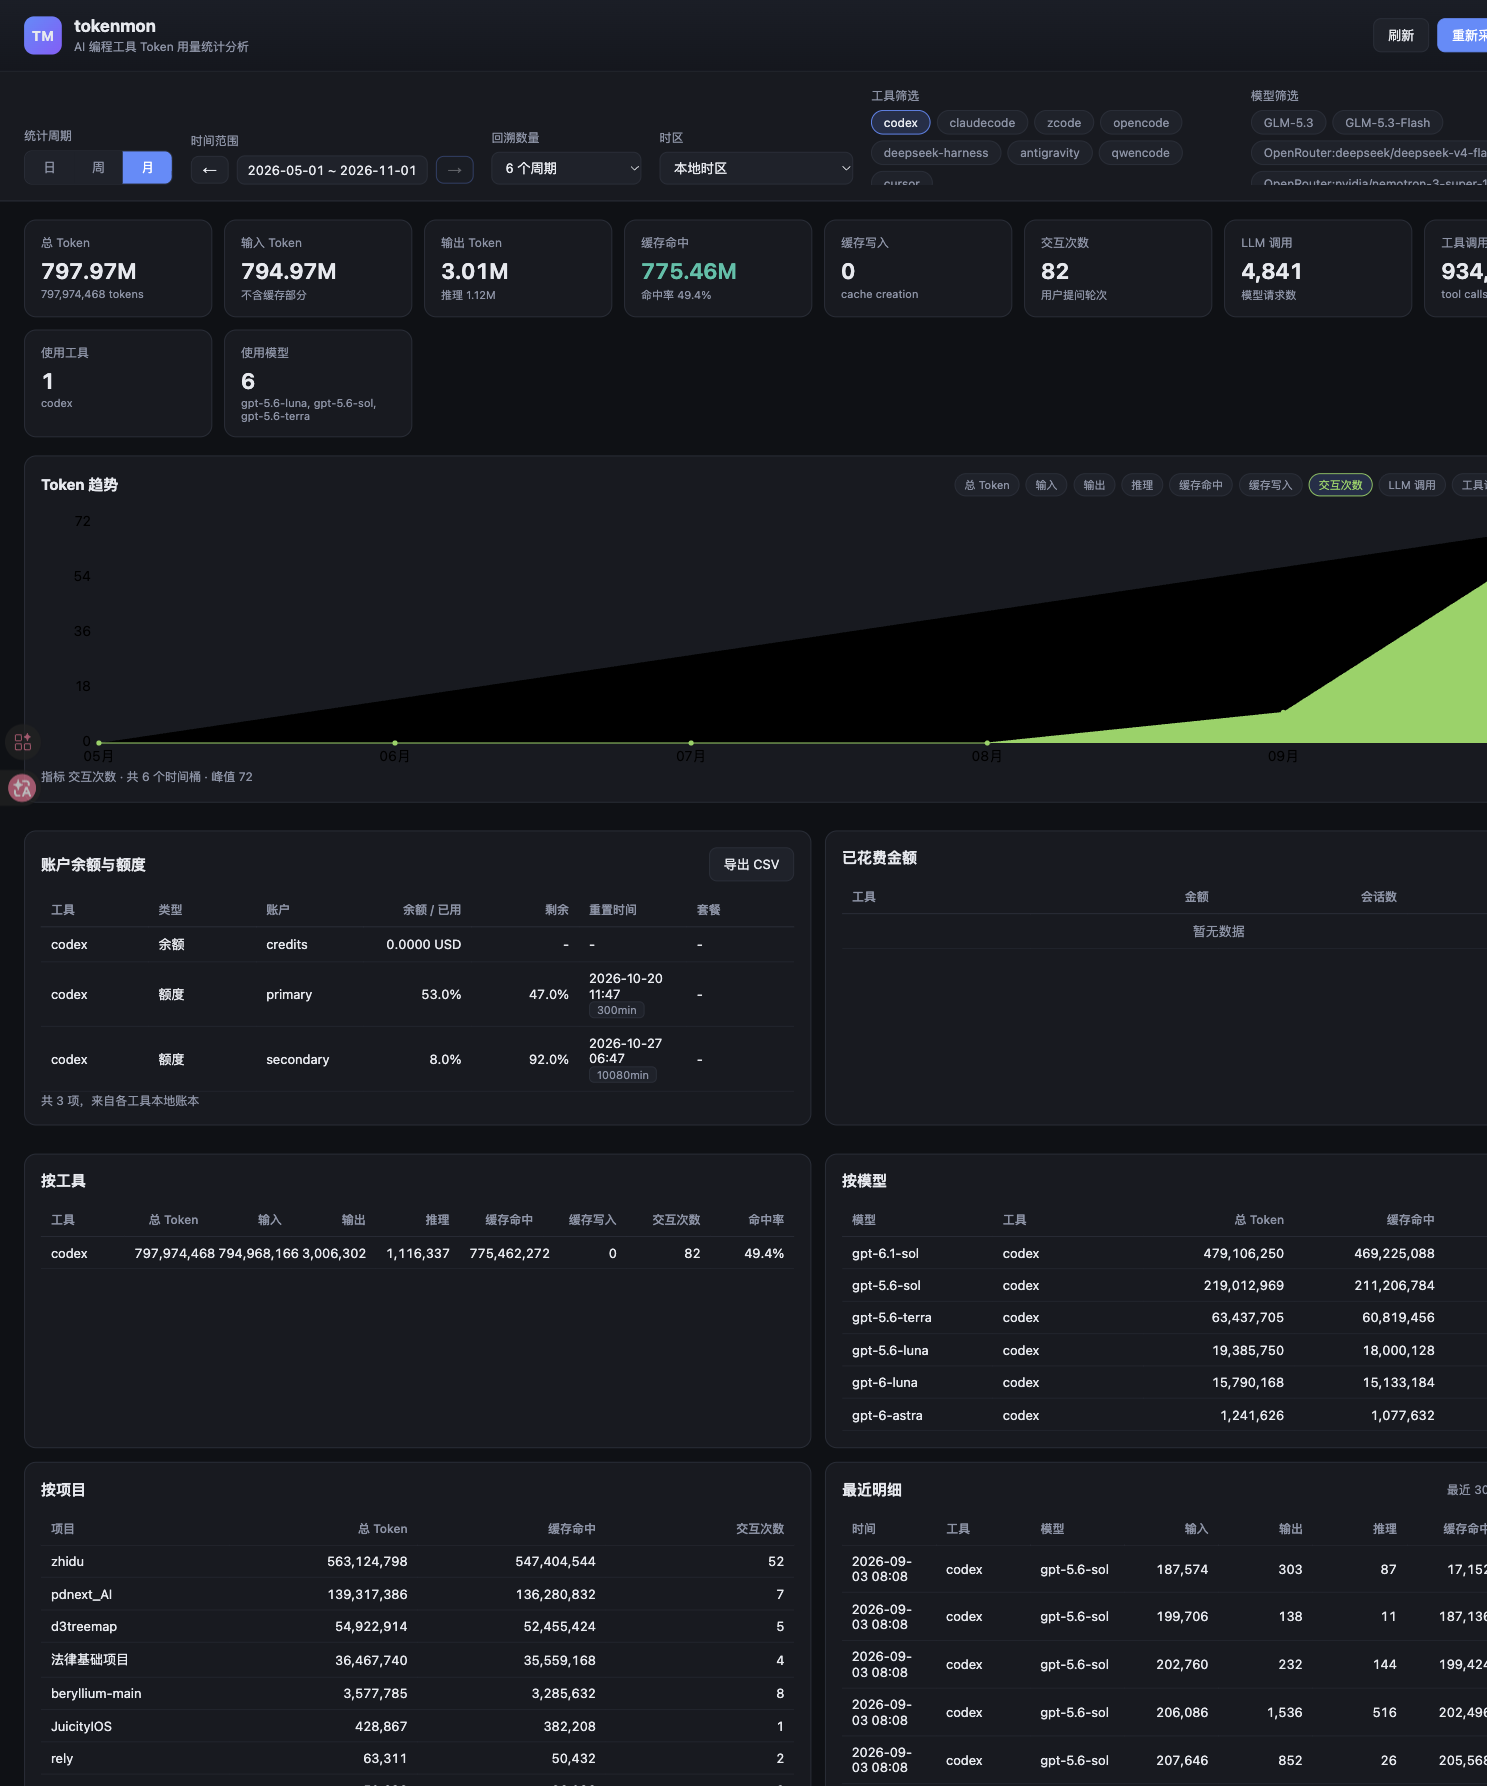
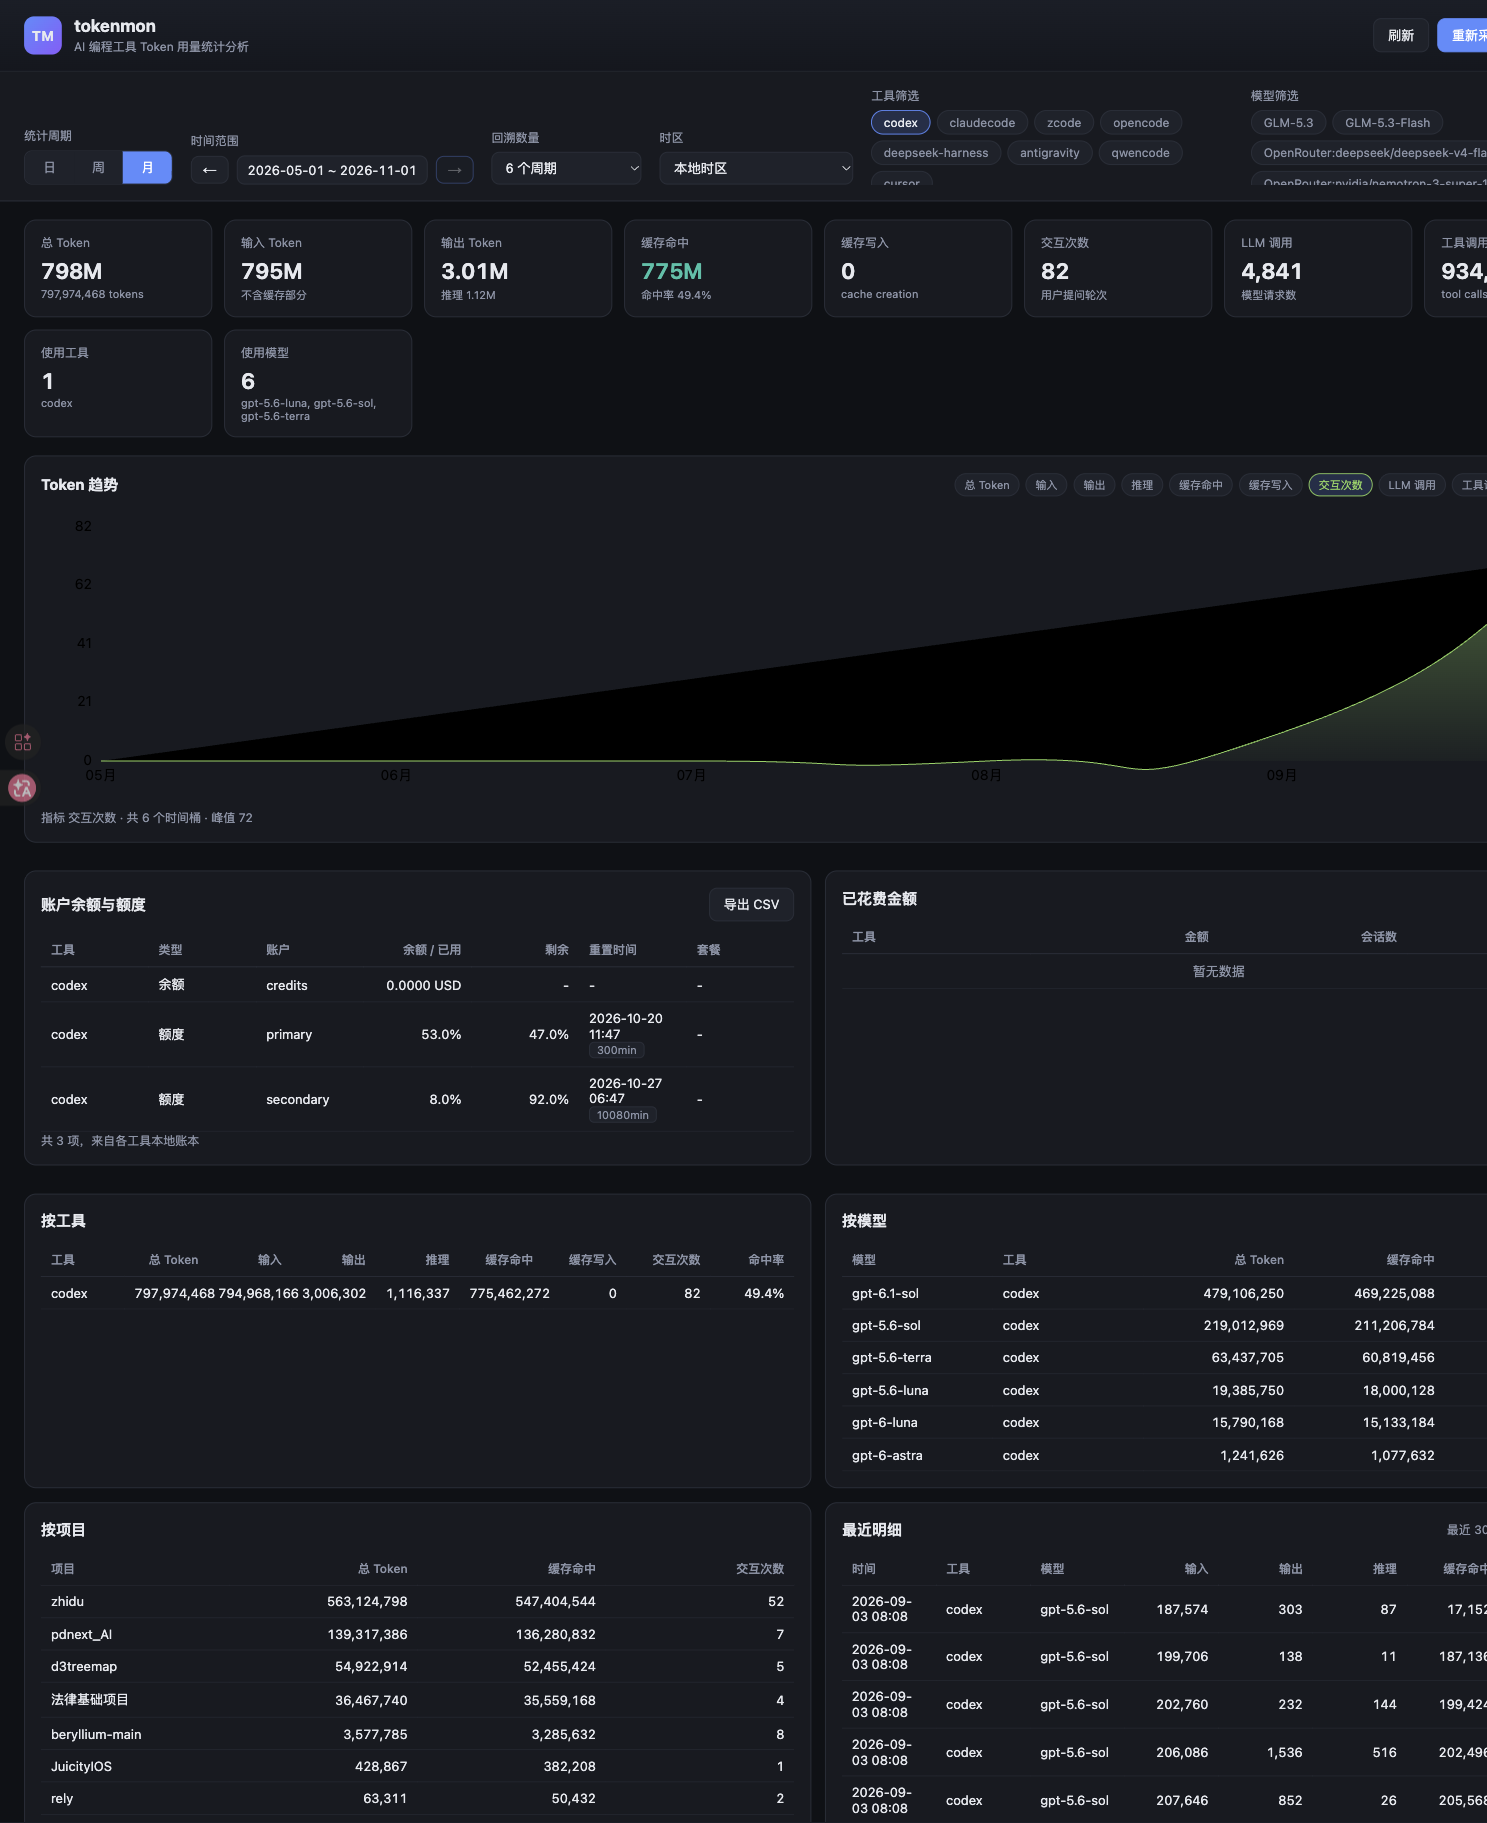
feat(ui): smooth Catmull-Rom curve chart with gradient area and peak marker; 3-sig-digit token formatting

diff --git a/tokenmon_pkg/static/app.js b/tokenmon_pkg/static/app.js
@@ -74,12 +74,26 @@ function qsa(sel) {
   return Array.prototype.slice.call(document.querySelectorAll(sel));
 }
 
+// Compact token formatting: B / M / k with at most 3 significant digits.
+//   1_884_229_336 -> 1.88B   348_583_129 -> 349M   14_200 -> 14.2k
 function fmt(n) {
   if (n === null || n === undefined) return "-";
-  if (Math.abs(n) >= 1e9) return (n / 1e9).toFixed(2) + "B";
-  if (Math.abs(n) >= 1e6) return (n / 1e6).toFixed(2) + "M";
-  if (Math.abs(n) >= 1e3) return (n / 1e3).toFixed(1) + "k";
-  return String(n);
+  var value = Number(n);
+  if (!isFinite(value)) return "-";
+  var sign = value < 0 ? "-" : "";
+  var abs = Math.abs(value);
+  if (abs >= 1e9) return sign + sig3(abs / 1e9) + "B";
+  if (abs >= 1e6) return sign + sig3(abs / 1e6) + "M";
+  if (abs >= 1e3) return sign + sig3(abs / 1e3) + "k";
+  return sign + String(Math.round(abs));
+}
+
+// Round to 3 significant digits and drop trailing zeros so the label stays
+// short: 1.005 -> "1.01", 1.0 -> "1", 349.0 -> "349".
+function sig3(x) {
+  if (x >= 100) return String(Math.round(x));
+  if (x >= 10) return String(Math.round(x * 10) / 10);
+  return String(Math.round(x * 100) / 100);
 }
 
 function fmtFull(n) {
@@ -227,6 +241,35 @@ function buildTimezoneOptions() {
 
 // ------------------------------------------------------------- line chart
 
+// ------------------------------------------------------------- line chart
+
+// Catmull-Rom spline converted to cubic Bezier segments.  This is what makes
+// the curve smooth: straight L segments between sparse daily buckets read as
+// a jagged polyline, while the spline keeps the data points exact and bends
+// the line between them.
+function splinePath(points) {
+  if (!points.length) return "";
+  if (points.length === 1) {
+    return "M" + points[0][0].toFixed(1) + " " + points[0][1].toFixed(1);
+  }
+  var d = "M" + points[0][0].toFixed(1) + " " + points[0][1].toFixed(1);
+  for (var i = 0; i < points.length - 1; i++) {
+    var p0 = points[i - 1] || points[i];
+    var p1 = points[i];
+    var p2 = points[i + 1];
+    var p3 = points[i + 2] || p2;
+    var k = 1 / 6;
+    var c1x = p1[0] + (p2[0] - p0[0]) * k * 2;
+    var c1y = p1[1] + (p2[1] - p0[1]) * k * 2;
+    var c2x = p2[0] - (p3[0] - p1[0]) * k * 2;
+    var c2y = p2[1] - (p3[1] - p1[1]) * k * 2;
+    d += "C" + c1x.toFixed(1) + " " + c1y.toFixed(1) + " "
+      + c2x.toFixed(1) + " " + c2y.toFixed(1) + " "
+      + p2[0].toFixed(1) + " " + p2[1].toFixed(1) + " ";
+  }
+  return d;
+}
+
 function renderLineChart(buckets) {
   var host = qs("#chart");
   var metric = metricDef(state.metric);
@@ -239,74 +282,74 @@ function renderLineChart(buckets) {
   }
 
   var width = Math.max(560, host.clientWidth || 860);
-  var height = 260;
-  var pad = { top: 14, right: 16, bottom: 26, left: 58 };
+  var height = 280;
+  var pad = { top: 18, right: 18, bottom: 28, left: 60 };
   var plotW = width - pad.left - pad.right;
   var plotH = height - pad.top - pad.bottom;
 
   var values = buckets.map(function (b) { return Number(b[metric.key]) || 0; });
   var max = Math.max.apply(null, values.concat([0]));
-  var min = Math.min.apply(null, values.concat([0]));
-  // Give a flat series some visible headroom instead of a straight line at 0.
-  if (max === min) { max = max + 1; min = min > 0 ? 0 : min; }
-  var span = max - min || 1;
+  // Anchor the y axis at zero so the area fill is meaningful, then leave
+  // head room for the peak label.
+  var top = max === 0 ? 1 : max * 1.14;
+  var span = top;
   var stepX = buckets.length > 1 ? plotW / (buckets.length - 1) : 0;
 
   function xAt(i) { return pad.left + stepX * i; }
-  function yAt(v) {
-    return pad.top + plotH - ((v - min) / span) * plotH;
-  }
+  function yAt(v) { return pad.top + plotH - (v / span) * plotH; }
 
+  var points = values.map(function (v, i) { return [xAt(i), yAt(v)]; });
+  var linePath = splinePath(points);
+  var areaPath = points.length > 1
+    ? linePath + "L" + xAt(points.length - 1).toFixed(1)
+      + " " + (pad.top + plotH).toFixed(1)
+      + " L" + xAt(0).toFixed(1) + " " + (pad.top + plotH).toFixed(1) + " Z"
+    : "";
+
+  var gradId = "grad-" + metric.key;
   var parts = [];
   parts.push("<svg viewBox=\"0 0 " + width + " " + height + "\" role=\"img\">");
+  parts.push("<defs><linearGradient id=\"" + gradId + "\" x1=\"0\" y1=\"0\" x2=\"0\" y2=\"1\">",
+             "<stop offset=\"0%\" stop-color=\"" + metric.color + "\" stop-opacity=\"0.40\"/>",
+             "<stop offset=\"100%\" stop-color=\"" + metric.color + "\" stop-opacity=\"0.02\"/>",
+             "</linearGradient></defs>");
 
-  // horizontal grid + y labels (4 ticks)
   var ticks = 4;
   for (var t = 0; t <= ticks; t++) {
-    var v = min + (span * t) / ticks;
+    var v = (span * t) / ticks;
     var y = yAt(v);
-    parts.push("<line class=\"grid-line\" x1=\"" + pad.left + "\" y1=\"" + y
-               + "\" x2=\"" + (width - pad.right) + "\" y2=\"" + y + "\"/>");
-    parts.push("<text class=\"axis-label\" x=\"" + (pad.left - 8) + "\" y=\""
-               + (y + 3) + "\" text-anchor=\"end\">" + esc(fmt(v)) + "</text>");
+    parts.push("<line class=\"grid-line\" x1=\"" + pad.left + "\" y1=\"" + y.toFixed(1),
+               + "\" x2=\"" + (width - pad.right) + "\" y2=\"" + y.toFixed(1) + "\"/>");
+    parts.push("<text class=\"axis-label\" x=\"" + (pad.left - 9) + "\" y=\"",
+               + (y + 3.5).toFixed(1) + "\" text-anchor=\"end\">" + esc(fmt(v)) + "</text>");
   }
 
-  // x labels (thin out when crowded)
-  var every = Math.ceil(buckets.length / 12);
+  var every = Math.max(1, Math.ceil(buckets.length / 14));
   buckets.forEach(function (b, i) {
     if (i % every !== 0 && i !== buckets.length - 1) return;
-    parts.push("<text class=\"axis-label\" x=\"" + xAt(i) + "\" y=\""
-               + (height - 8) + "\" text-anchor=\"middle\">"
-               + esc(shortLabel(b.label)) + "</text>");
+    parts.push("<text class=\"axis-label\" x=\"" + xAt(i).toFixed(1) + "\" y=\"",
+               + (height - 9) + "\" text-anchor=\"middle\">" + esc(shortLabel(b.label)) + "</text>");
   });
 
-  // area + line
-  var linePath = "";
-  var areaPath = "";
-  values.forEach(function (v, i) {
-    var cmd = (i === 0 ? "M" : "L");
-    linePath += cmd + xAt(i).toFixed(1) + " " + yAt(v).toFixed(1) + " ";
-  });
-  if (values.length > 1) {
-    areaPath = "M" + xAt(0).toFixed(1) + " " + yAt(min).toFixed(1) + " " + linePath
-      + "L" + xAt(values.length - 1).toFixed(1) + " " + yAt(min).toFixed(1) + " Z";
-  }
   if (areaPath) {
-    parts.push("<path class=\"series-area\" d=\"" + areaPath + "\" fill=\""
-               + metric.color + "\"/>");
+    parts.push("<path class=\"series-area\" d=\"" + areaPath + "\" fill=\"url(#" + gradId + ")\" stroke=\"none\"/>");
   }
-  parts.push("<path class=\"series-path\" d=\"" + linePath + "\" stroke=\""
-             + metric.color + "\"/>");
+  parts.push("<path class=\"series-path\" d=\"" + linePath + "\" stroke=\"" + metric.color + "\"/>");
 
-  values.forEach(function (v, i) {
-    parts.push("<circle class=\"dot\" cx=\"" + xAt(i).toFixed(1) + "\" cy=\""
-               + yAt(v).toFixed(1) + "\" r=\"2.6\" fill=\"" + metric.color
-               + "\" data-i=\"" + i + "\"/>");
-  });
+  // Mark only the peak so the curve stays clean when there are many buckets.
+  var peakIndex = 0;
+  values.forEach(function (v, i) { if (v > values[peakIndex]) peakIndex = i; });
+  if (values[peakIndex] > 0) {
+    parts.push("<circle class=\"dot peak\" cx=\"" + xAt(peakIndex).toFixed(1)
+               + "\" cy=\"" + yAt(values[peakIndex]).toFixed(1) + "\" r=\"4\" fill=\""
+               + metric.color + "\"/>");
+    parts.push("<text class=\"peak-label\" x=\"" + xAt(peakIndex).toFixed(1)
+               + "\" y=\"" + (yAt(values[peakIndex]) - 10).toFixed(1)
+               + "\" text-anchor=\"middle\">" + esc(fmt(values[peakIndex])) + "</text>");
+  }
 
-  parts.push("<line class=\"hover-line\" id=\"hoverLine\" x1=\"0\" y1=\""
-             + pad.top + "\" x2=\"0\" y2=\"" + (pad.top + plotH)
-             + "\" style=\"display:none\"/>");
+  parts.push("<line class=\"hover-line\" id=\"hoverLine\" x1=\"0\" y1=\"" + pad.top
+             + "\" x2=\"0\" y2=\"" + (pad.top + plotH) + "\" style=\"display:none\"/>");
   parts.push("</svg>");
   parts.push("<div class=\"linechart-tip\" id=\"chartTip\"></div>");
   host.innerHTML = parts.join("");
@@ -316,7 +359,6 @@ function renderLineChart(buckets) {
 
   attachChartHover(host, buckets, metric, xAt, width);
 }
-
 function shortLabel(label) {
   // 2026-10-22 -> 10-22 ; 2026-W42 -> W42 ; 2026-10 -> 10月
   var s = String(label);

diff --git a/tokenmon_pkg/static/app.css b/tokenmon_pkg/static/app.css
@@ -270,3 +270,45 @@ select {
   background: var(--panel-2);
   border: 1px solid var(--border);
 }
+
+/* ---- line chart polish ---- */
+.chart { min-height: 300px; }
+.linechart svg { display: block; width: 100%; height: 300px; }
+.linechart .series-path {
+  fill: none;
+  stroke-width: 2.5;
+  stroke-linejoin: round;
+  stroke-linecap: round;
+  vector-effect: non-scaling-stroke;
+  filter: drop-shadow(0 2px 6px rgba(0,0,0,.35));
+}
+.linechart .series-area { stroke: none; }
+.linechart .dot {
+  stroke: var(--panel);
+  stroke-width: 2;
+  vector-effect: non-scaling-stroke;
+}
+.linechart .peak-label {
+  fill: var(--text);
+  font-size: 11px;
+  font-weight: 600;
+  font-variant-numeric: tabular-nums;
+}
+.linechart .grid-line { stroke: var(--border); stroke-width: 1; opacity: .6; }
+.linechart .axis-label { fill: var(--muted); font-size: 10.5px; }
+.linechart .hover-line {
+  stroke: var(--text);
+  stroke-width: 1;
+  stroke-dasharray: 4 4;
+  opacity: .45;
+}
+.linechart-tip {
+  background: rgba(11,13,18,.96);
+  border: 1px solid var(--border);
+  border-radius: 10px;
+  padding: 9px 11px;
+  font-size: 12px;
+  min-width: 156px;
+  box-shadow: 0 8px 24px rgba(0,0,0,.5);
+  backdrop-filter: blur(4px);
+}

diff --git a/tokenmon_pkg/templates/index.html b/tokenmon_pkg/templates/index.html
@@ -4,7 +4,7 @@
 <meta charset="utf-8">
 <meta name="viewport" content="width=device-width, initial-scale=1">
 <title>tokenmon - AI 编程工具 Token 用量分析</title>
-<link rel="stylesheet" href="/static/app.css?v=3">
+<link rel="stylesheet" href="/static/app.css?v=4">
 </head>
 <body>
 <header class="topbar">
@@ -135,6 +135,6 @@
   <span id="status"></span>
 </footer>
 
-<script src="/static/app.js?v=3"></script>
+<script src="/static/app.js?v=4"></script>
 </body>
 </html>
